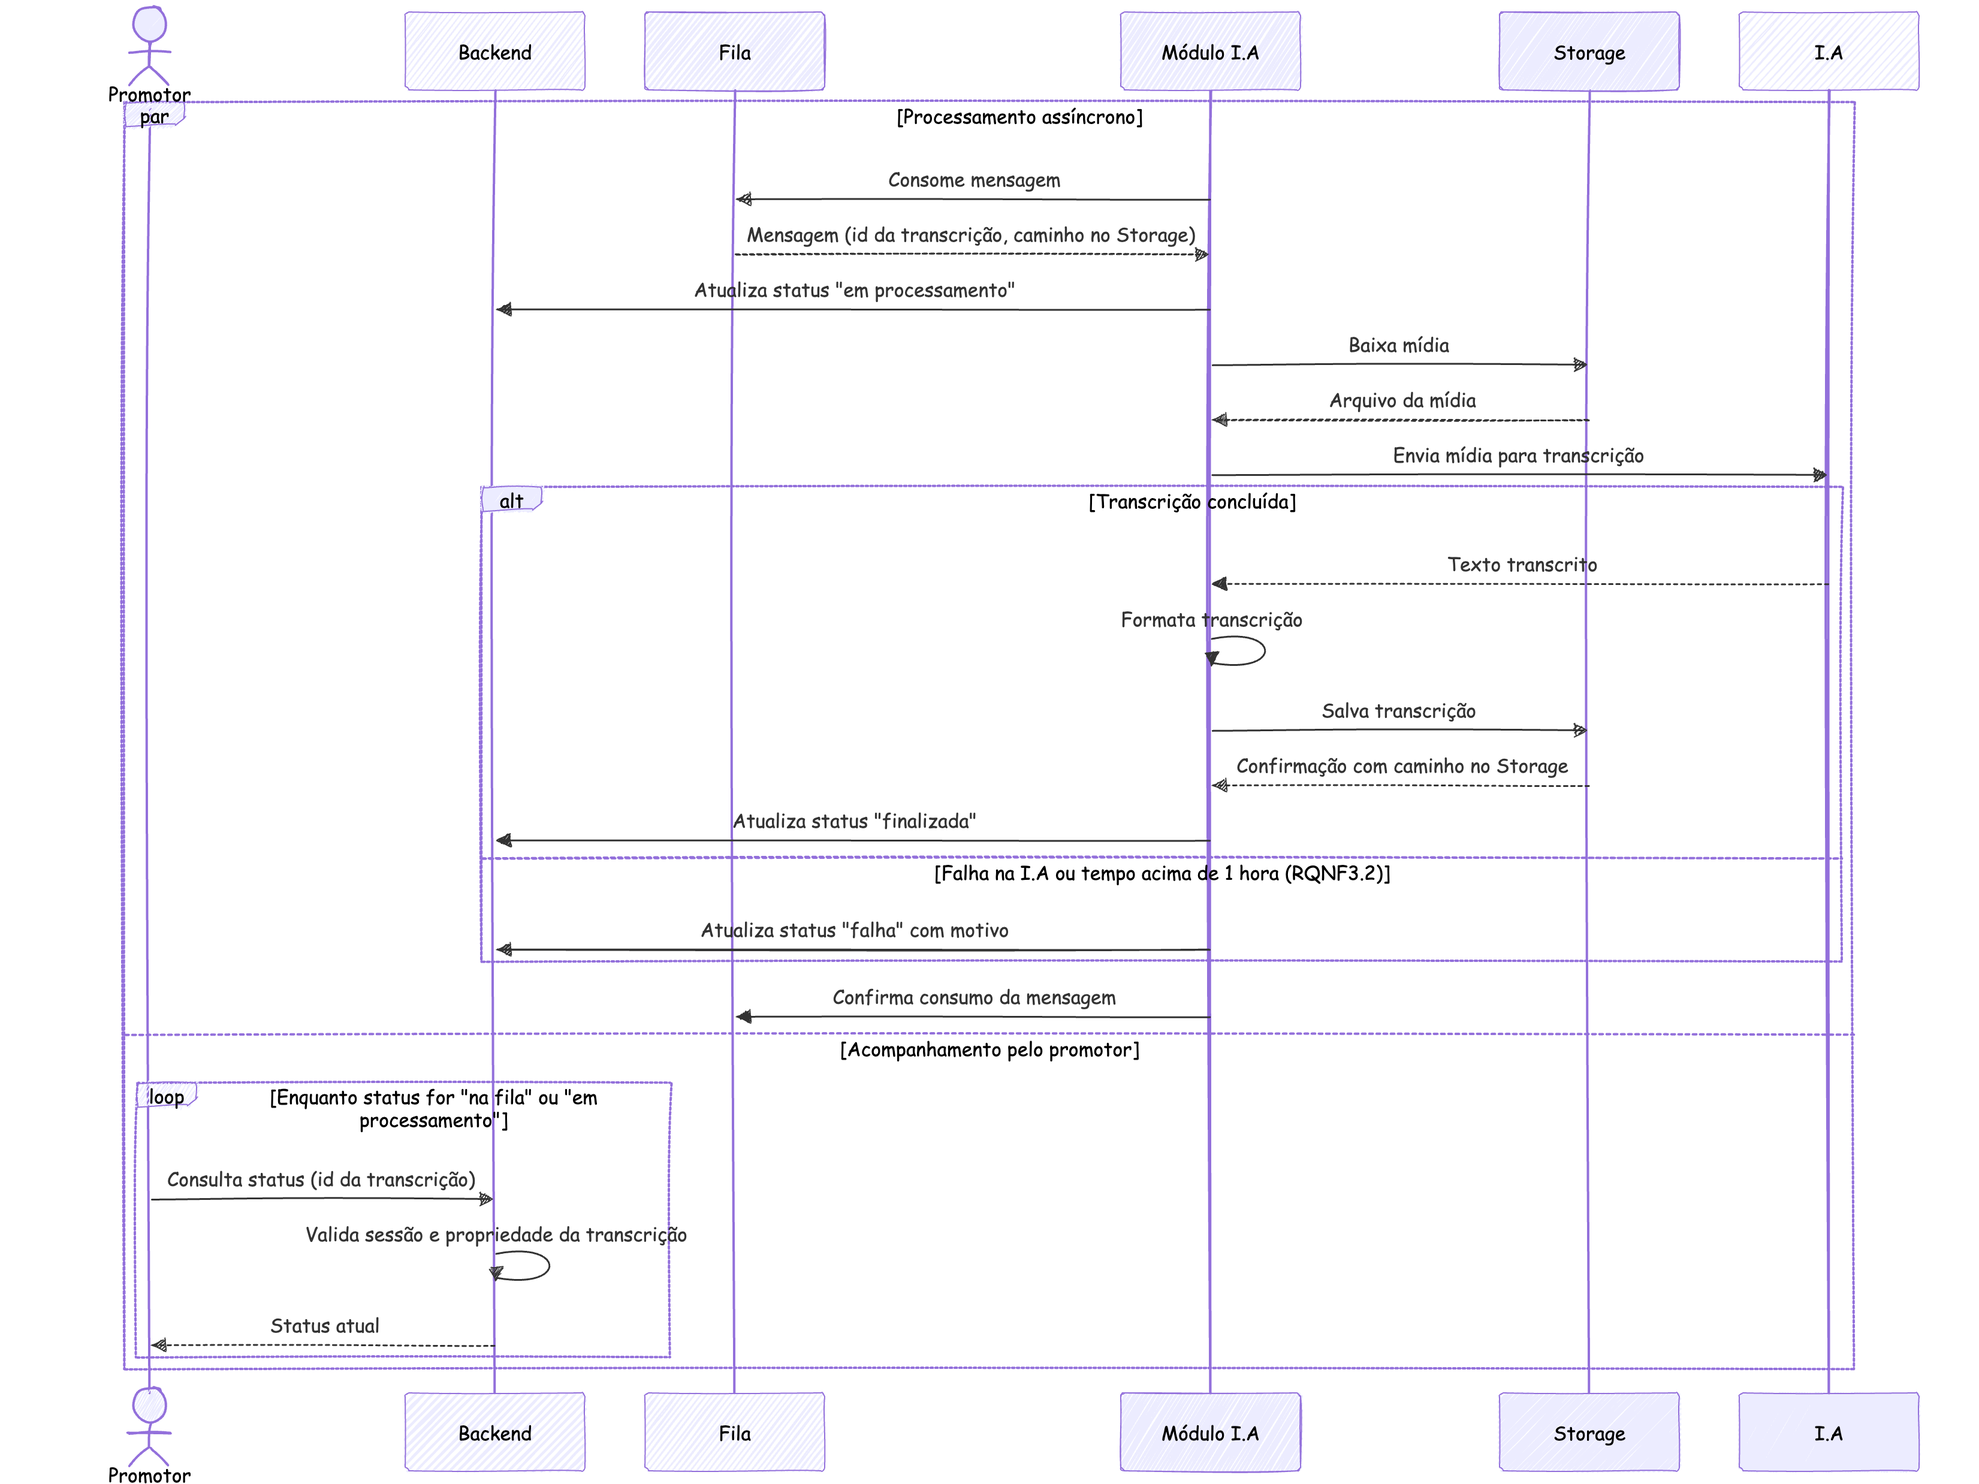
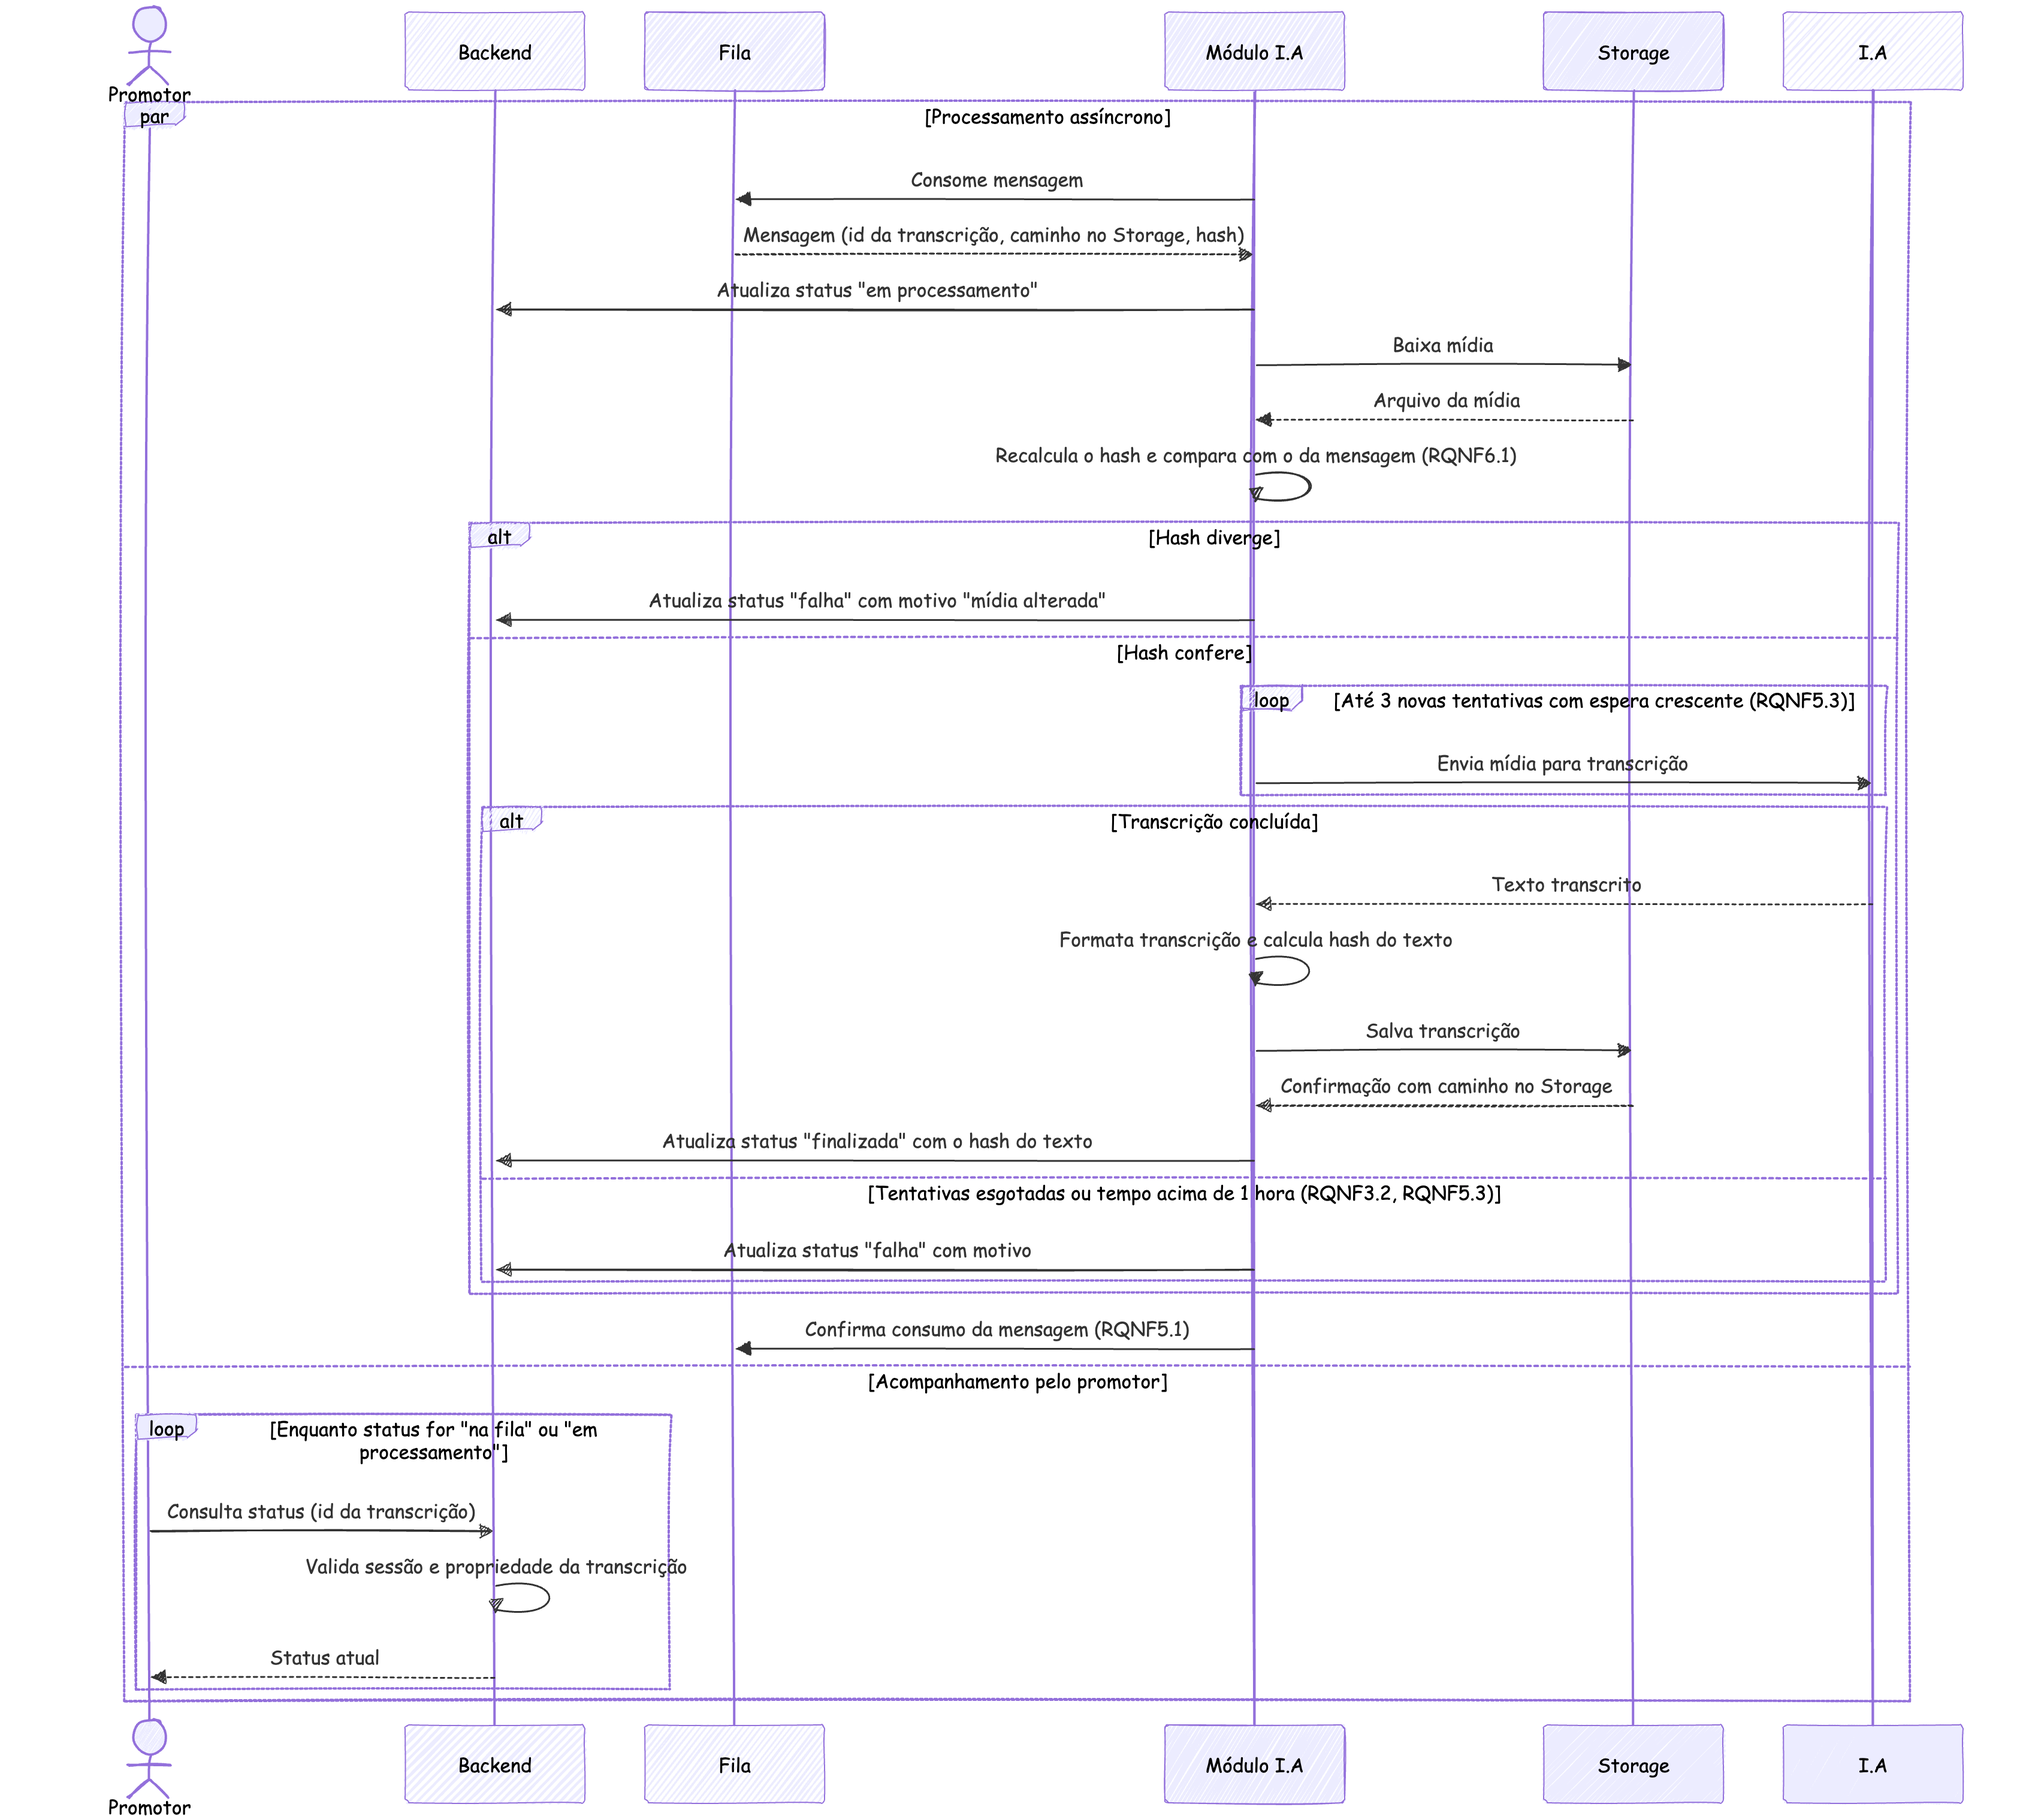
Reflete hash e tentativas nos diagramas de RQF3, RQF4 e RQF6
RQF3 calcula o hash da mídia, envia na mensagem e trata falha na
publicação. RQF4 confere o hash antes de transcrever e tenta a I.A até
três vezes. RQF6 confere o hash do texto ao abrir a transcrição. O
registro de transcrições passa a guardar os dois hashes.

diff --git a/requisitos funcionais/RQF4-acompanhamento-do-status-da-transcricao.md b/requisitos funcionais/RQF4-acompanhamento-do-status-da-transcricao.md
@@ -25,21 +25,28 @@ sequenceDiagram
     participant IA as I.A
     par Processamento assíncrono
         M->>F: Consome mensagem
-        F-->>M: Mensagem (id da transcrição, caminho no Storage)
+        F-->>M: Mensagem (id da transcrição, caminho no Storage, hash)
         M->>B: Atualiza status "em processamento"
         M->>S: Baixa mídia
         S-->>M: Arquivo da mídia
-        M->>IA: Envia mídia para transcrição
-        alt Transcrição concluída
-            IA-->>M: Texto transcrito
-            M->>M: Formata transcrição
-            M->>S: Salva transcrição
-            S-->>M: Confirmação com caminho no Storage
-            M->>B: Atualiza status "finalizada"
-        else Falha na I.A ou tempo acima de 1 hora (RQNF3.2)
-            M->>B: Atualiza status "falha" com motivo
+        M->>M: Recalcula o hash e compara com o da mensagem (RQNF6.1)
+        alt Hash diverge
+            M->>B: Atualiza status "falha" com motivo "mídia alterada"
+        else Hash confere
+            loop Até 3 novas tentativas com espera crescente (RQNF5.3)
+                M->>IA: Envia mídia para transcrição
+            end
+            alt Transcrição concluída
+                IA-->>M: Texto transcrito
+                M->>M: Formata transcrição e calcula hash do texto
+                M->>S: Salva transcrição
+                S-->>M: Confirmação com caminho no Storage
+                M->>B: Atualiza status "finalizada" com o hash do texto
+            else Tentativas esgotadas ou tempo acima de 1 hora (RQNF3.2, RQNF5.3)
+                M->>B: Atualiza status "falha" com motivo
+            end
         end
-        M->>F: Confirma consumo da mensagem
+        M->>F: Confirma consumo da mensagem (RQNF5.1)
     and Acompanhamento pelo promotor
         loop Enquanto status for "na fila" ou "em processamento"
             P->>B: Consulta status (id da transcrição)

diff --git a/requisitos funcionais/README.md b/requisitos funcionais/README.md
@@ -19,7 +19,7 @@ Cada requisito funcional listado em [REQUISITOS.md](../REQUISITOS.md) tem um dia
 | Módulo I.A             | Consome a fila, envia a mídia para a I.A e persiste o resultado                                                                                       |
 | I.A                    | Serviço externo de I.A acessado via API, usado para transcrição e chat                                                                                |
 
-**Registro de transcrições.** O Backend mantém um registro com o identificador de cada transcrição, o promotor solicitante, o processo, a mídia, o caminho no Storage e o status. Nos diagramas, operações internas do Backend, como as sobre esse registro e a validação de sessão, aparecem como mensagens do Backend para ele mesmo. O high-level design em SERVICO.md ainda não possui um componente de persistência para esse registro.
+**Registro de transcrições.** O Backend mantém um registro com o identificador de cada transcrição, o promotor solicitante, o processo, a mídia, o caminho no Storage, os hashes da mídia e do texto (RQNF6.1, RQNF6.3) e o status. Nos diagramas, operações internas do Backend, como as sobre esse registro e a validação de sessão, aparecem como mensagens do Backend para ele mesmo. O high-level design em SERVICO.md ainda não possui um componente de persistência para esse registro.
 
 **Status de uma transcrição.** Os valores possíveis são `na fila`, `em processamento`, `finalizada` e `falha`. As transições ocorrem em RQF3 e RQF4.
 

diff --git a/requisitos funcionais/RQF3-solicitacao-de-transcricao-de-midia.md b/requisitos funcionais/RQF3-solicitacao-de-transcricao-de-midia.md
@@ -34,13 +34,20 @@ sequenceDiagram
         else Mídia dentro do limite
             B->>SP: Solicita arquivo da mídia
             SP-->>B: Arquivo da mídia
-            B->>B: Valida formato e tamanho real do arquivo
+            B->>B: Valida formato, tamanho real e antimalware (RQNF6.5)
+            B->>B: Calcula hash SHA-256 da mídia (RQNF6.1)
             B->>S: Upload da mídia
             S-->>B: Confirmação com caminho no Storage
-            B->>B: Cria registro com status "na fila"
-            B->>F: Publica mensagem (id da transcrição, caminho no Storage, promotor)
+            B->>B: Cria registro com status "na fila" e o hash
+            B->>F: Publica mensagem (id da transcrição, caminho no Storage, hash, promotor)
             Note over B,F: Fila escolhida pelo tamanho da mídia (RQNF4.4)
-            B-->>P: Confirma solicitação e retorna id da transcrição
+            alt Fila confirmou
+                B-->>P: Confirma solicitação e retorna id da transcrição
+            else Publicação falhou após 3 tentativas (RQNF5.4)
+                B->>S: Remove a cópia da mídia
+                B->>B: Atualiza status "falha" com motivo
+                B-->>P: Informa falha na solicitação
+            end
         end
     end
 ```

diff --git a/requisitos funcionais/RQF6-acesso-a-transcricao-finalizada.md b/requisitos funcionais/RQF6-acesso-a-transcricao-finalizada.md
@@ -30,10 +30,16 @@ sequenceDiagram
         B->>S: Busca arquivo da transcrição
         alt Arquivo encontrado
             S-->>B: Conteúdo da transcrição
-            B-->>P: Exibe transcrição
+            B->>B: Confere o hash do texto com o registrado (RQNF6.3)
+            alt Hash confere
+                B-->>P: Exibe transcrição
+            else Hash diverge
+                B->>B: Atualiza status "falha" com motivo "conteúdo alterado" e gera evento de auditoria
+                B-->>P: Erro, transcrição indisponível
+            end
         else Arquivo ausente
             S-->>B: Não encontrado
-            B->>B: Atualiza status "falha" com motivo "arquivo ausente"
+            B->>B: Atualiza status "falha" com motivo "arquivo ausente" e gera evento de auditoria
             B-->>P: Erro, transcrição indisponível
         end
     end
